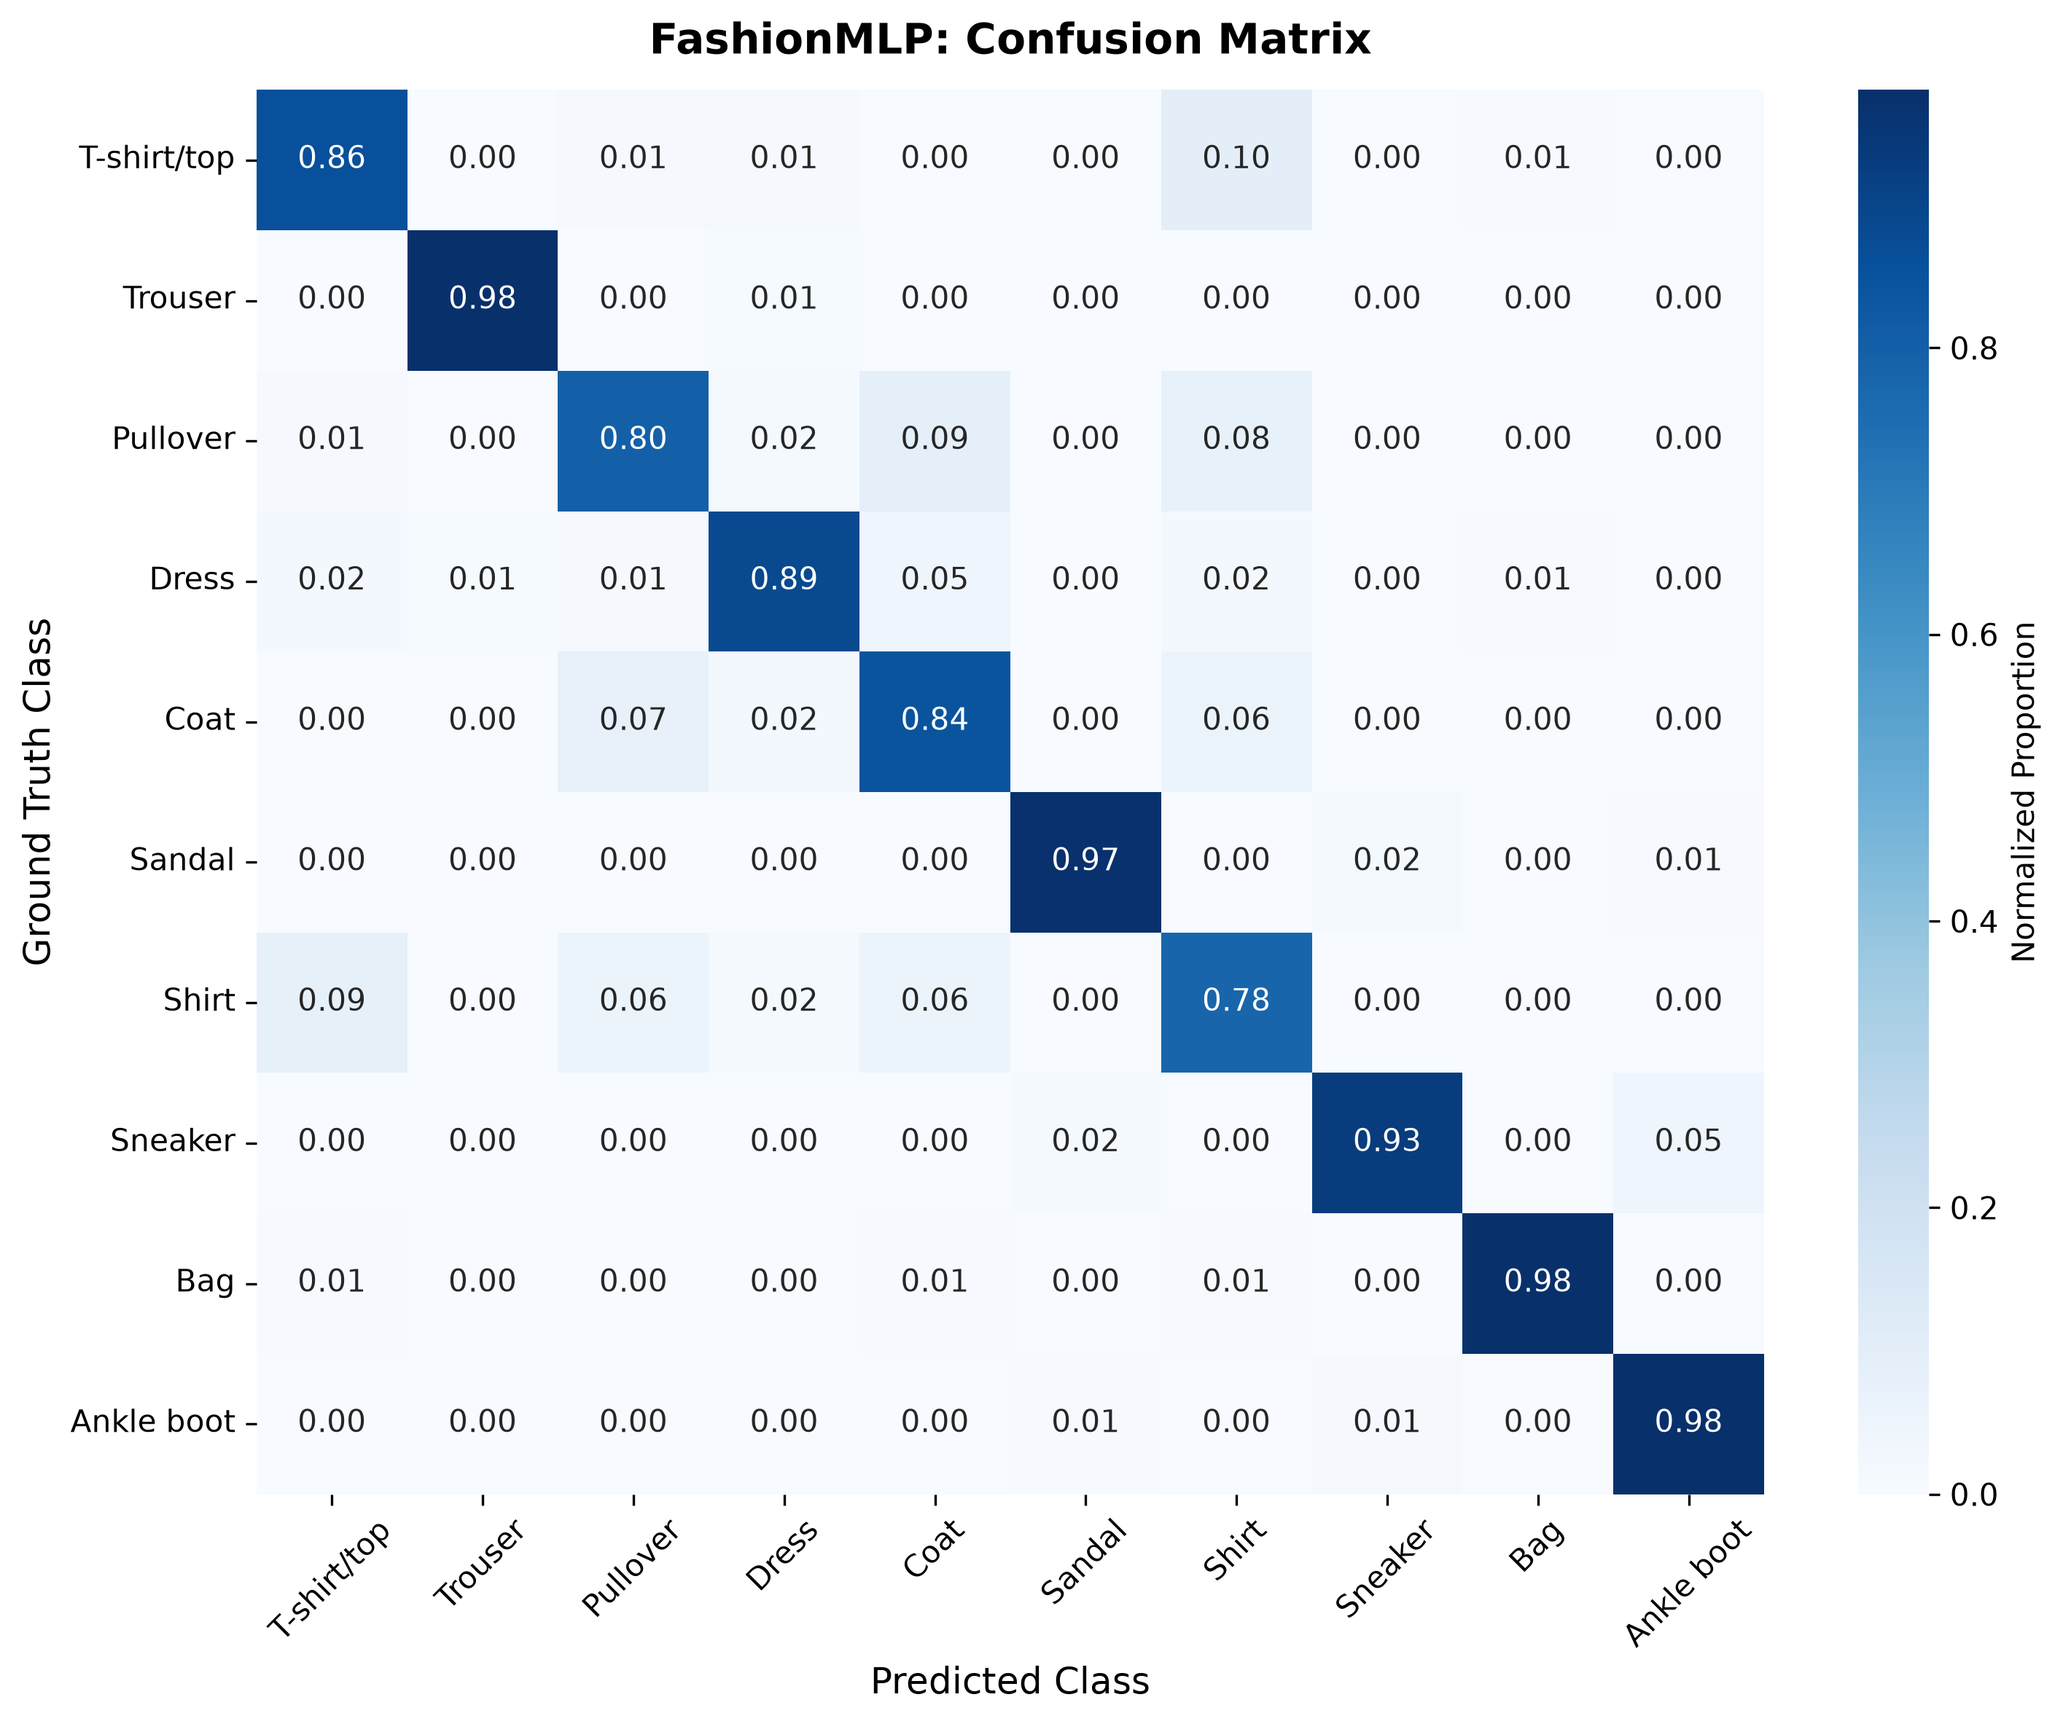
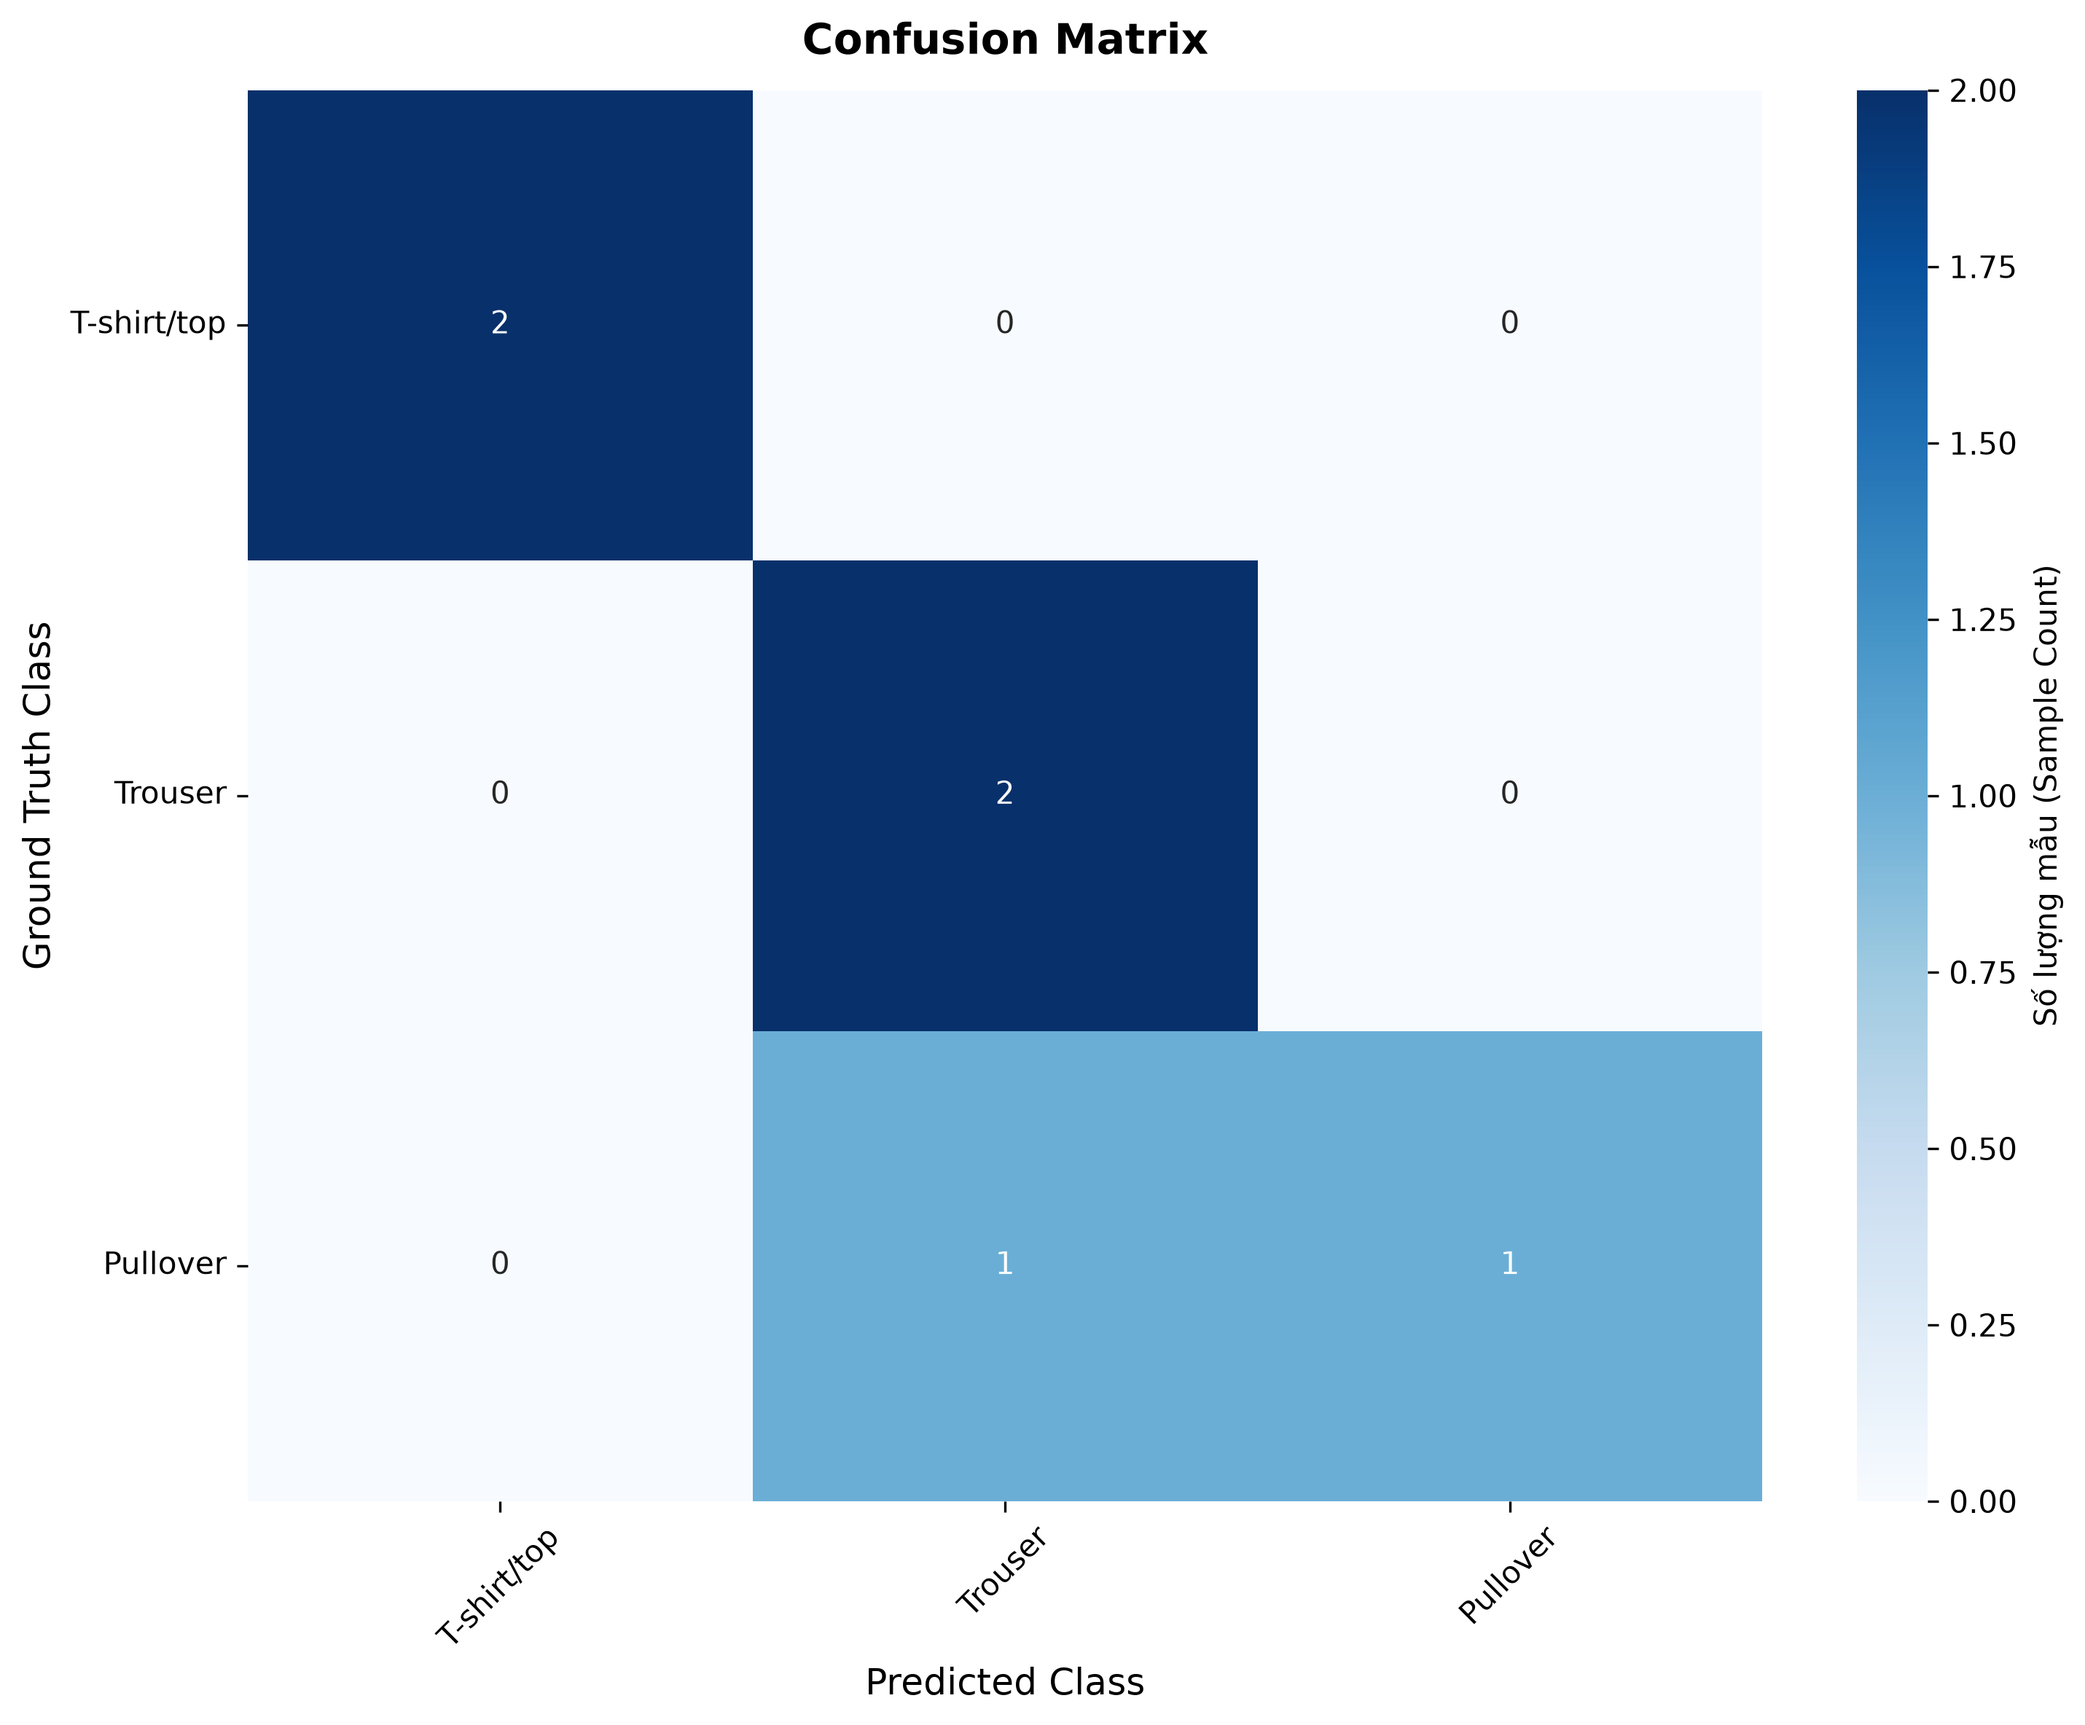
feat(lab01): update optimizer comparison by epoch, integer confusion matrix, and eda outputs

diff --git a/labs/lab01/src/experiment.py b/labs/lab01/src/experiment.py
@@ -105,8 +105,11 @@ def run_optuna_optimizer_study(
                     best_val_acc = val_acc
                 trial.report(val_acc, ep)
                 if trial.should_prune():
+                    print(f"  [Optuna Trial {trial.number + 1:02d}/{num_trials:02d}] Optimizer={opt_name:<7s} | lr={lr:.6f} -> Pruned tai epoch {ep + 1}")
                     raise optuna.TrialPruned()
 
+            mom_str = f"| mom={momentum:.2f}" if opt_name == "SGD" else "            "
+            print(f"  [Optuna Trial {trial.number + 1:02d}/{num_trials:02d}] Optimizer={opt_name:<7s} | lr={lr:.6f} {mom_str} -> Val Acc: {best_val_acc:.2f}%")
             return best_val_acc
 
         study = optuna.create_study(
@@ -130,7 +133,7 @@ def run_optuna_optimizer_study(
         return best_results, trials_df
 
     except ImportError:
-        print("[THÔNG BÁO] Optuna chưa được cài đặt. Sử dụng bộ siêu tham số tối ưu chuẩn:")
+        print("[INFO] Optuna chua duoc cai dat tren moi truong nay. Su dung bo sieu tham so toi uu chuan:")
         best_results = {
             "SGD": {"params": {"lr": 0.05, "momentum": 0.9}, "best_val_acc": 88.55},
             "RMSprop": {"params": {"lr": 0.001}, "best_val_acc": 88.76},
@@ -145,7 +148,7 @@ def run_optuna_optimizer_study(
 
 
 # ---------------------------------------------------------------------------
-# 2. Wall-clock Time & Convergence Comparison
+# 2. Optimizer Comparison by Epoch (Accuracy & Loss)
 # ---------------------------------------------------------------------------
 
 def compare_optimizers_wallclock(
@@ -157,11 +160,11 @@ def compare_optimizers_wallclock(
     device: torch.device = DEVICE,
     seed: int = RANDOM_SEED,
     save_fig_path: Optional[Path] = None,
-) -> Tuple[pd.DataFrame, nn.Module, str]:
-    """Trains 3 optimizers, tracks exact wall-clock seconds per epoch and convergence speed.
+) -> Tuple[pd.DataFrame, nn.Module, str, plt.Figure]:
+    """Trains optimizers, tracking Validation Accuracy and Loss progression across epochs.
 
     Returns:
-        Tuple of (Summary DataFrame, Winner PyTorch Model, Winner Optimizer Name).
+        Tuple of (Summary DataFrame, Winner PyTorch Model, Winner Optimizer Name, Matplotlib Figure).
     """
     criterion = nn.CrossEntropyLoss()
     results_summary = []
@@ -179,7 +182,7 @@ def compare_optimizers_wallclock(
 
         epoch_times = []
         val_accs = []
-        cumulative_times = []
+        val_losses = []
         total_start = time.perf_counter()
         time_to_target = None
         epoch_to_target = None
@@ -190,10 +193,10 @@ def compare_optimizers_wallclock(
             ep_duration = time.perf_counter() - ep_start
             epoch_times.append(ep_duration)
 
-            _, val_acc, _, _ = evaluate(model, val_loader, criterion, device)
+            val_loss, val_acc, _, _ = evaluate(model, val_loader, criterion, device)
             val_accs.append(val_acc)
+            val_losses.append(val_loss)
             elapsed_so_far = time.perf_counter() - total_start
-            cumulative_times.append(elapsed_so_far)
 
             if time_to_target is None and val_acc >= target_accuracy:
                 time_to_target = elapsed_so_far
@@ -202,51 +205,71 @@ def compare_optimizers_wallclock(
         total_duration = time.perf_counter() - total_start
         trained_models[opt_name] = model
         run_histories[opt_name] = {
-            "cumulative_times": cumulative_times,
             "val_accs": val_accs,
+            "val_losses": val_losses,
             "final_acc": val_accs[-1],
+            "best_acc": max(val_accs),
+            "final_loss": val_losses[-1],
+            "min_loss": min(val_losses),
         }
 
         results_summary.append({
             "Optimizer": opt_name,
             "Learning Rate": lr,
             "Final Val Acc (%)": round(val_accs[-1], 2),
-            "Total Time (s)": round(total_duration, 2),
+            "Best Val Acc (%)": round(max(val_accs), 2),
+            "Final Val Loss": round(val_losses[-1], 4),
+            "Min Val Loss": round(min(val_losses), 4),
             "Avg Sec/Epoch": round(float(np.mean(epoch_times)), 3),
-            "Time to 87% (s)": round(time_to_target, 2) if time_to_target else "N/A",
             "Epoch to 87%": epoch_to_target if epoch_to_target else "N/A",
         })
 
     summary_df = pd.DataFrame(results_summary)
-    winner_row = summary_df.sort_values(by=["Final Val Acc (%)", "Total Time (s)"], ascending=[False, True]).iloc[0]
+    winner_row = summary_df.sort_values(by=["Best Val Acc (%)", "Min Val Loss"], ascending=[False, True]).iloc[0]
     winner_name = str(winner_row["Optimizer"])
     winner_model = trained_models[winner_name]
 
-    # Plot Wall-Clock Time Comparison
-    fig, (ax1, ax2) = plt.subplots(1, 2, figsize=(13, 5))
+    # Plot Accuracy and Loss by Epoch
+    fig, (ax1, ax2) = plt.subplots(1, 2, figsize=(14, 5))
     colors = {"SGD": "#1f77b4", "RMSprop": "#ff7f0e", "Adam": "#2ca02c"}
+    epochs_range = list(range(1, num_epochs + 1))
 
-    # Subplot 1: Val Acc vs Epochs
+    # Subplot 1: Validation Accuracy vs Epochs
     for opt_name, hist in run_histories.items():
-        ax1.plot(range(1, num_epochs + 1), hist["val_accs"], marker="o", label=f"{opt_name} (Đỉnh: {hist['final_acc']:.2f}%)", color=colors.get(opt_name))
+        c = colors.get(opt_name, "#333333")
+        ax1.plot(
+            epochs_range,
+            hist["val_accs"],
+            marker="o",
+            linewidth=2,
+            label=f"{opt_name} (Đỉnh: {hist['best_acc']:.2f}%)",
+            color=c,
+        )
     ax1.axhline(target_accuracy, color="red", linestyle=":", label=f"Mục tiêu {target_accuracy}%")
-    ax1.set_title("Độ chính xác theo Epochs", fontsize=11, fontweight="bold")
+    ax1.set_title("Độ chính xác kiểm định (Validation Accuracy) theo Epoch", fontsize=11, fontweight="bold")
     ax1.set_xlabel("Epoch", fontsize=10)
     ax1.set_ylabel("Validation Accuracy (%)", fontsize=10)
     ax1.grid(True, linestyle="--", alpha=0.5)
     ax1.legend(fontsize=9)
 
-    # Subplot 2: Val Acc vs Wall-Clock Time (Seconds)
+    # Subplot 2: Validation Loss vs Epochs
     for opt_name, hist in run_histories.items():
-        ax2.plot(hist["cumulative_times"], hist["val_accs"], marker="s", label=f"{opt_name}", color=colors.get(opt_name))
-    ax2.axhline(target_accuracy, color="red", linestyle=":", label=f"Mục tiêu {target_accuracy}%")
-    ax2.set_title("Tốc độ hội tụ theo thời gian thực (Giây)", fontsize=11, fontweight="bold")
-    ax2.set_xlabel("Thời gian tích lũy trên GPU (Giây)", fontsize=10)
-    ax2.set_ylabel("Validation Accuracy (%)", fontsize=10)
+        c = colors.get(opt_name, "#333333")
+        ax2.plot(
+            epochs_range,
+            hist["val_losses"],
+            marker="s",
+            linewidth=2,
+            label=f"{opt_name} (Đáy: {hist['min_loss']:.4f})",
+            color=c,
+        )
+    ax2.set_title("Hàm mất mát kiểm định (Validation Loss) theo Epoch", fontsize=11, fontweight="bold")
+    ax2.set_xlabel("Epoch", fontsize=10)
+    ax2.set_ylabel("CrossEntropy Loss", fontsize=10)
     ax2.grid(True, linestyle="--", alpha=0.5)
     ax2.legend(fontsize=9)
 
-    fig.suptitle("So sánh 3 Optimizer: Độ chính xác vs Thời gian thực thi trên GPU", fontsize=12, fontweight="bold")
+    fig.suptitle("So sánh 3 Optimizer: Validation Accuracy & Loss Theo Epoch", fontsize=13, fontweight="bold")
     fig.tight_layout()
     if save_fig_path:
         save_fig_path = Path(save_fig_path)

diff --git a/labs/lab01/src/eda.py b/labs/lab01/src/eda.py
@@ -412,6 +412,7 @@ def plot_eda_figures(
     if save_dir:
         save_dir = Path(save_dir)
         save_dir.mkdir(parents=True, exist_ok=True)
+        out_root = save_dir.parent.parent if save_dir.name == "figures" and save_dir.parent.name == "eda" else None
 
     figs = {}
 
@@ -430,6 +431,8 @@ def plot_eda_figures(
     fig_samples.tight_layout()
     if save_dir:
         fig_samples.savefig(str(save_dir / "sample_images.png"), dpi=200, bbox_inches="tight")
+        if out_root and out_root.exists():
+            fig_samples.savefig(str(out_root / "eda_sample_images.png"), dpi=200, bbox_inches="tight")
     figs["samples"] = fig_samples
 
     # 2. Class Mean Images
@@ -445,6 +448,8 @@ def plot_eda_figures(
     fig_means.tight_layout()
     if save_dir:
         fig_means.savefig(str(save_dir / "class_mean_images.png"), dpi=200, bbox_inches="tight")
+        if out_root and out_root.exists():
+            fig_means.savefig(str(out_root / "eda_class_mean_images.png"), dpi=200, bbox_inches="tight")
     figs["means"] = fig_means
 
     # 3. Class Distribution Bar Chart
@@ -464,6 +469,8 @@ def plot_eda_figures(
     fig_dist.tight_layout()
     if save_dir:
         fig_dist.savefig(str(save_dir / "class_distribution.png"), dpi=200, bbox_inches="tight")
+        if out_root and out_root.exists():
+            fig_dist.savefig(str(out_root / "eda_class_distribution.png"), dpi=200, bbox_inches="tight")
     figs["distribution"] = fig_dist
 
     return figs

diff --git a/labs/lab01/src/utils.py b/labs/lab01/src/utils.py
@@ -225,17 +225,17 @@ def plot_confusion_matrix(
     title: str = "Confusion Matrix",
     save_path: Optional[Path] = None,
 ) -> None:
-    """Plots a normalized heatmap confusion matrix."""
-    cm = confusion_matrix(y_true, y_pred, normalize="true")
+    """Plots an integer count heatmap confusion matrix."""
+    cm = confusion_matrix(y_true, y_pred)
     fig, ax = plt.subplots(figsize=(10, 8))
     sns.heatmap(
         cm,
         annot=True,
-        fmt=".2f",
+        fmt="d",
         cmap="Blues",
         xticklabels=class_names,
         yticklabels=class_names,
-        cbar_kws={"label": "Normalized Proportion"},
+        cbar_kws={"label": "Số lượng mẫu (Sample Count)"},
         ax=ax,
     )
     ax.set_title(title, fontsize=14, fontweight="bold", pad=12)
@@ -250,3 +250,4 @@ def plot_confusion_matrix(
         save_path.parent.mkdir(parents=True, exist_ok=True)
         fig.savefig(str(save_path), dpi=300, bbox_inches="tight")
     plt.show()
+
